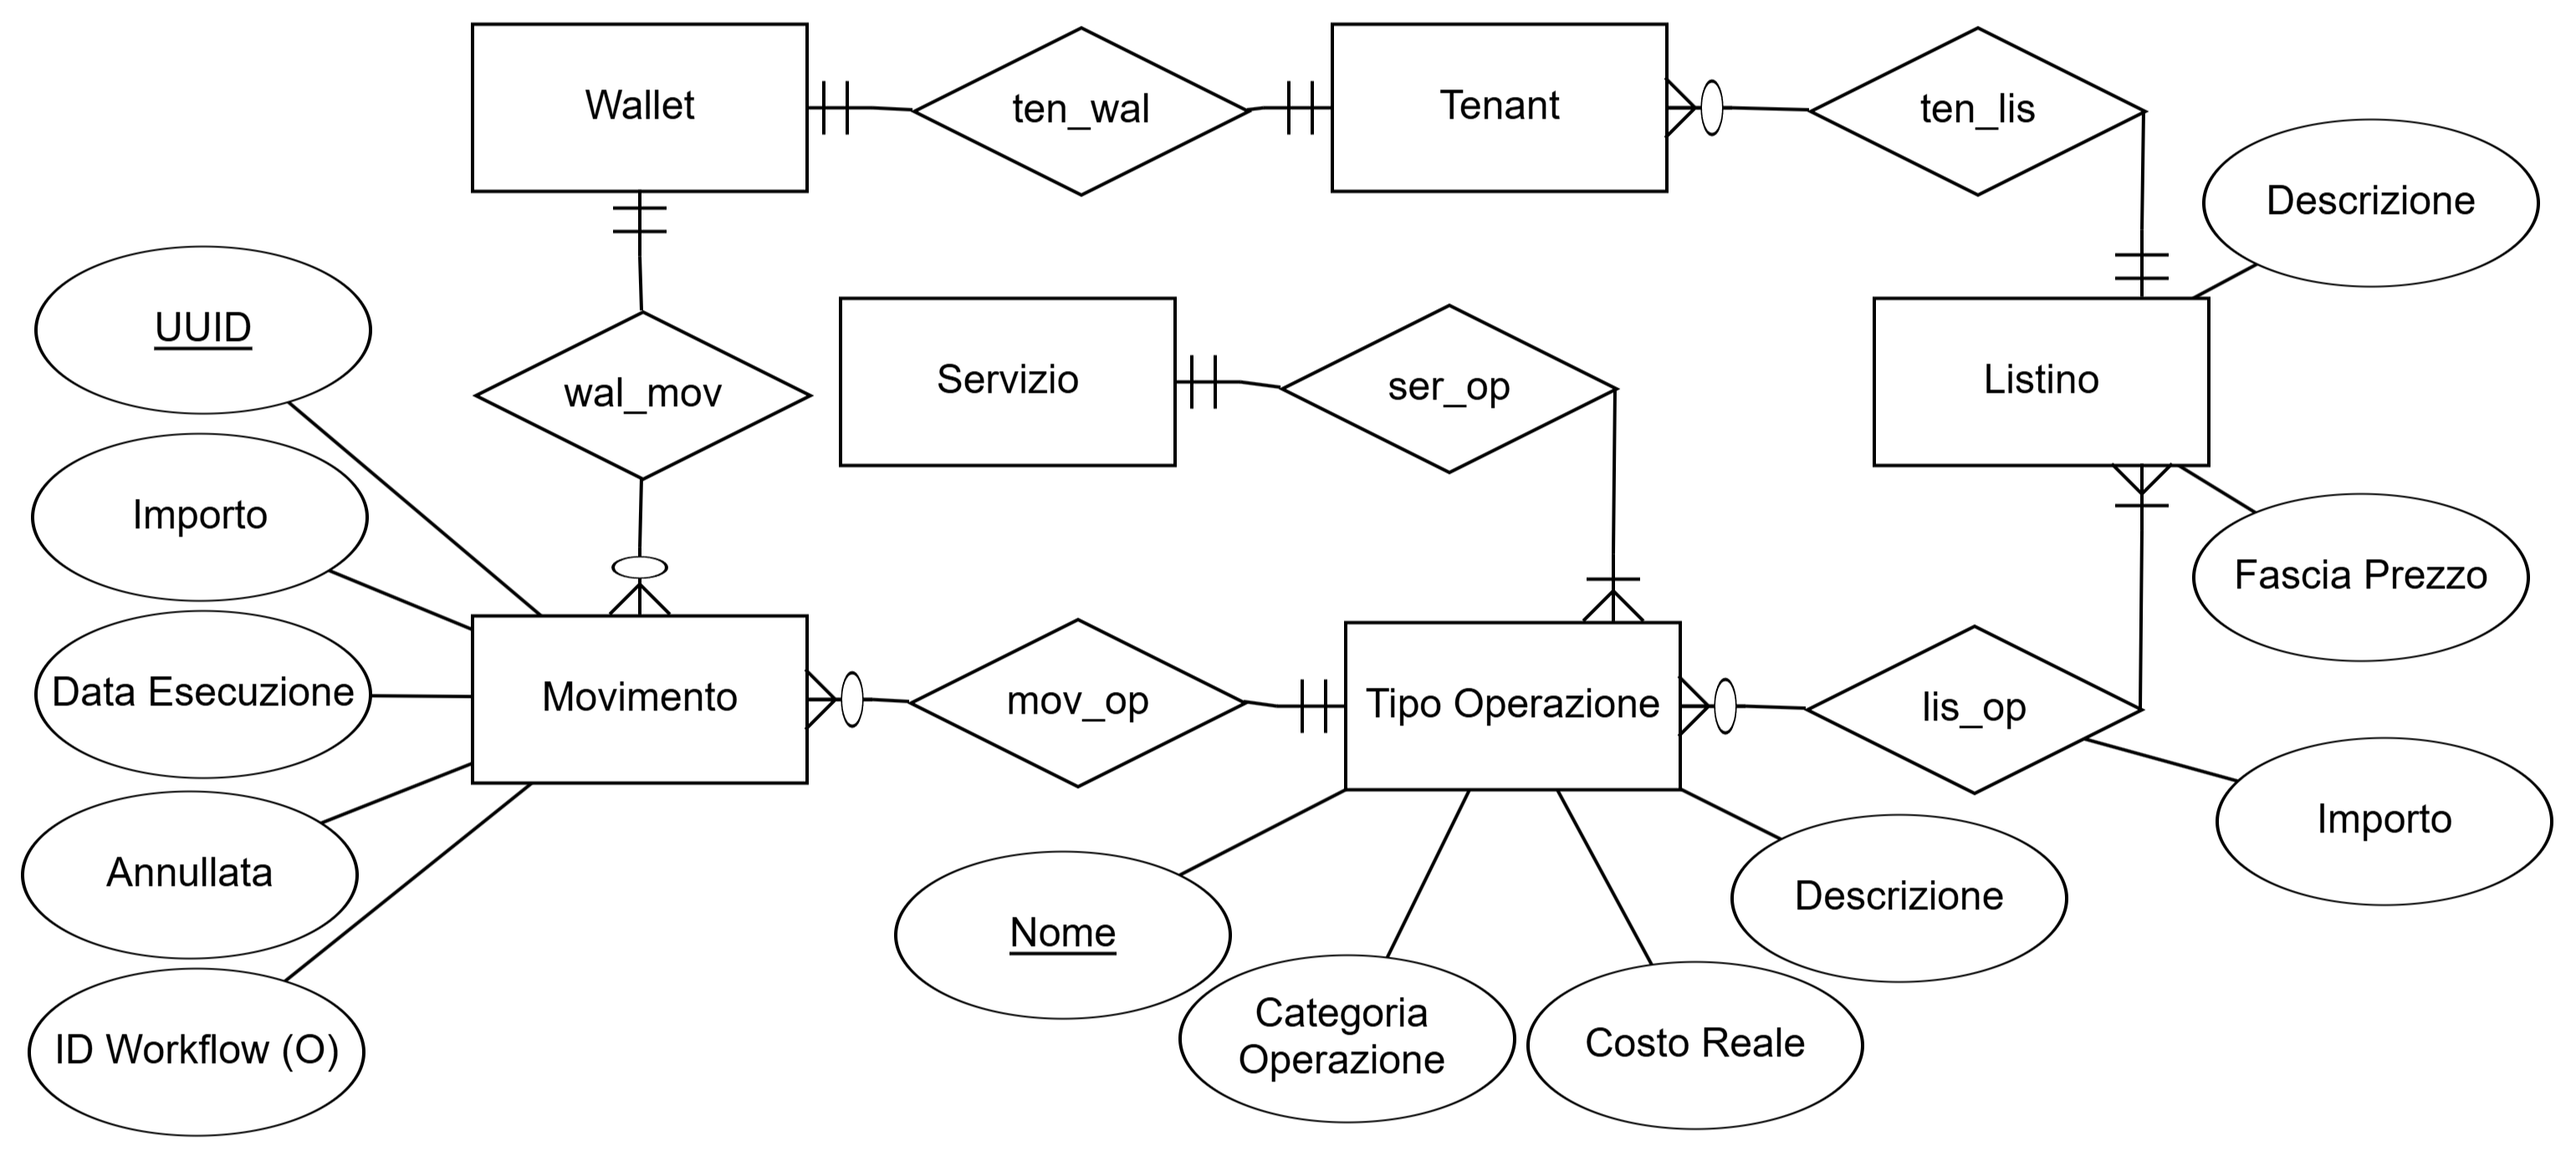
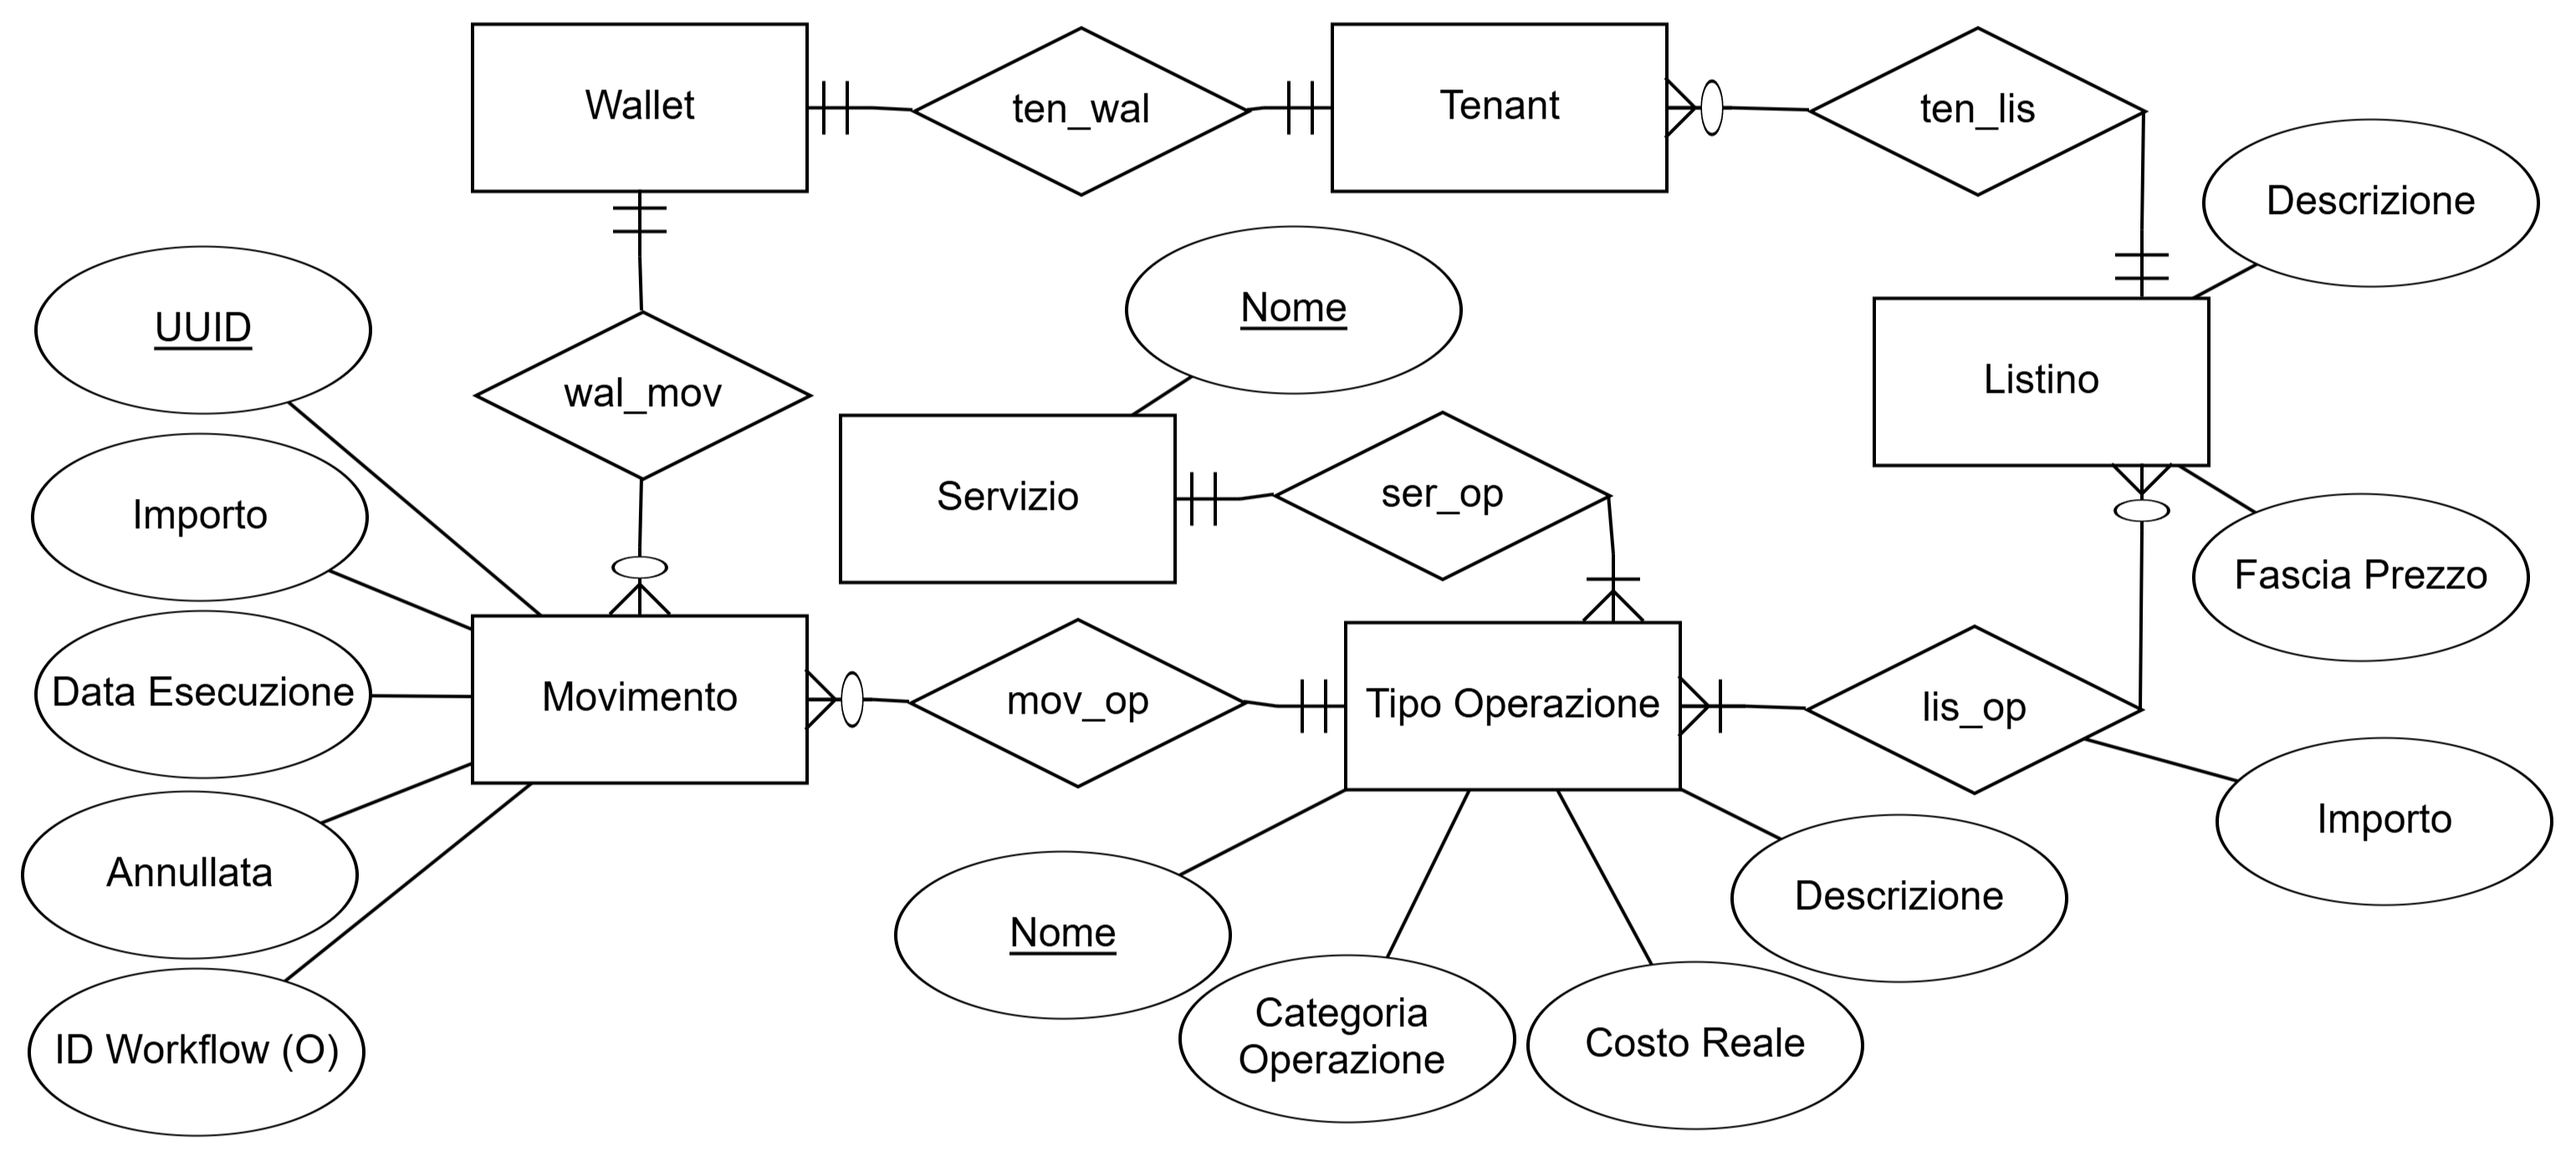
modifiche su progettazione concettuale e ristrutturazione e traduzione

diff --git a/src/chapters/progettazione_concettuale.tex b/src/chapters/progettazione_concettuale.tex
@@ -40,27 +40,39 @@ Non sono presenti neanche le chiavi primarie normalmente richieste in un vero da
     \toprule
     \textbf{Attributo} & \textbf{Dominio} & \textbf{Descrizione} \\
     \midrule
-    Nome & string & Nome del Servizio \\\bottomrule
+    Nome & Stringa & Nome del Servizio \\\bottomrule
   \end{tabulary}
 \end{table}
 
 \begin{table}[H]
   \centering
-  \caption{Descrizione degli attributi dell'entit\`a Tipo Movimento}
+  \caption{Descrizione degli attributi dell'entit\`a Tipo Operazione}
   \begin{tabulary}{0.9\textwidth}{p{2.3cm}p{2.7cm}L}
     \toprule
     \textbf{Attributo} & \textbf{Dominio} & \textbf{Descrizione} \\
     \midrule
-    Nome & string & Nome del Tipo Operazione \\\addlinespace
+    Nome & Stringa & Nome del Tipo Operazione \\\addlinespace
     Categoria Operazione & \{ADDEBITO, ACCREDITO\} & Tipologia di operazione. Utilizziamo un enum type per rappresentare questo attributo. \\\addlinespace
     Costo Reale & numeric & Costo reale affrontato interrogando la banca dati esterna \\\addlinespace
-    Descrizione & string & Breve descrizione di cosa fa l'operazione\\\bottomrule
+    Descrizione & Stringa & Breve descrizione di cosa fa l'operazione\\\bottomrule
   \end{tabulary}
 \end{table}
 
 \begin{table}[H]
   \centering
-  \caption{Descrizione degli attributi della relationship Prezzo Listino}
+  \caption{Descrizione degli attributi dell'entit\`a Listino}
+  \begin{tabulary}{\textwidth}{p{2.3cm}p{1.8cm}L}
+    \toprule
+    \textbf{Attributo} & \textbf{Dominio} & \textbf{Descrizione} \\
+    \midrule
+    Descrizione & Stringa & Descrizione del Listino\\
+    Fascia Prezzo & \{ALTA, MEDIA, BASSA\} & Campo descrittivo per indicare la fascia di prezzo del listino\\\bottomrule
+  \end{tabulary}
+\end{table}
+
+\begin{table}[H]
+  \centering
+  \caption{Descrizione degli attributi della relationship lis\_op}
   \begin{tabulary}{\textwidth}{p{2.3cm}p{2.3cm}L}
     \toprule
     \textbf{Attributo} & \textbf{Dominio} & \textbf{Descrizione} \\
@@ -70,12 +82,30 @@ Non sono presenti neanche le chiavi primarie normalmente richieste in un vero da
 \end{table}
 
 \subsection{Vincoli Esterni}
-Non \`e stato possibile rappresentare un singolo vincolo attraverso lo schema ER:\\\\
+Dalla costruzione dello schema concettuale, \`e emersa la necessità di rappresentare il seguente vincolo esterno:\\\\
 \textbf{\label{tuttiimporticoncept}Tutti gli importi specificati} - Esiste una relationship Prezzo Listino tra ogni entit\`a Listino e ogni entit\`a Tipo Operazione
 
 \section{Casi d'uso}
+In questa sezione verrà fornito lo schema UML dei casi d'uso, che indica le funzionalit\`a dell'applicazione e gli attori che le useranno. Prenderemo inoltre in esame
+un caso d'uso rappresentativo all'interno dell'applicativo e che coinvolge le funzionalit\`a del Credit Manager.
 \begin{figure}[H]
   \centering
-  \includegraphics[width=10cm]{images/db-diagrams/use-case-diagram.jpg}
+  \includegraphics[width=8.5cm]{images/db-diagrams/use-case-diagram.jpg}
   \caption{Schema UML dei casi d'uso}
 \end{figure}
+
+\textbf{crea\_listino(descrizione: Stringa, fascia\_prezzo: \{ALTA, MEDIA,\\BASSA\}, tipi\_operazione: [TipoOperazione], prezzi: [Numeric]) $\implies$ Listino:}\\\\
+\textit{pre}:\\\\
+\hspace*{0.5 cm}Verifica le seguenti condizioni:
+\begin{itemize}
+  \item $descrizione \neq$ ``''
+  \item $tipi\_operazione.length == prezzi.length$
+  \item $\forall tipoOperazione \in Tipo Operazione \implies \exists op \in tipi\_operazione \land op == tipoOperazione $
+\end{itemize}
+\textit{post}:
+\begin{enumerate}
+  \item Crea un nuovo Listino con la descrizione e fascia prezzo.
+  \item Per ogni \textit{tipo} in \textit{tipo\_operazione} crea una nuova relationship PrezzoListino tra il nuovo listino e \textit{tipo},
+    con importo uguale all'elemento di \textit{prezzi} con lo stesso indice.
+  \item Restituisci il nuovo Listino
+\end{enumerate}

diff --git a/src/chapters/ristrutturazione_traduzione.tex b/src/chapters/ristrutturazione_traduzione.tex
@@ -1,7 +1,7 @@
 \chapter{Ristrutturazione e traduzione dello schema}
 In questo capitolo procederemo alla preparazione dello schema per poi tradurlo direttamente in uno schema relazionale per PostgreSQL, specificando anche delle soluzioni per
 rispettare i vincoli esterni definiti.
-\section{Ristrutturazione dello schema ER}
+\section{Ristrutturazione dello schema Entity-Relationship}
 Procediamo alla ristrutturazione dello schema ER prima di tradurlo direttamente nello schema relazionale:
 \begin{itemize}
   \item Sostituiamo le relationship Molti a Molti, tipicamente introducendo una nuova tabella
@@ -13,20 +13,20 @@ Procediamo alla ristrutturazione dello schema ER prima di tradurlo direttamente 
 \begin{figure}[H]
   \centering
   \includegraphics[width=13cm]{images/db-diagrams/er-diagram-ristrutturato.png}
-  \caption{Schema Entit\`a Relazione tradotto}
+  \caption{Schema Entity-Relationship tradotto}
 \end{figure}
 
 \section{Traduzione dello schema ristrutturato}
 Traduciamo lo schema ristrutturato nello schema relazionale da inserire in PostgreSQL, con chiavi primarie e chiavi esterne.
 \\\\
-\textbf{Movimento(\underline{uuid}, importo, dataEsecuzione, descrizione, idWorkflow*, tipoOperazioneId, walletId) \\}
+\textbf{Movimento(\underline{uuid}, importo, dataEsecuzione, descrizione, idWorkflow*,\\ tipoOperazioneId, walletId) \\}
 \textbf{\hspace*{1.5 cm} foreign key: $ Movimento[tipoOperazioneId] \subseteq TipoOperazione[nome] $} \\
 \textbf{\hspace*{1.5 cm} foreign key: $ Movimento[walletId] \subseteq Wallet[id] $ }
 \\\\
-\textbf{TipoOperazione(\underline{nome}, servizioId, categoriaOperazione, costoReale, descrizione) \\}
-\textbf{\hspace*{1.5 cm} foreign key: $ TipoOperazione[servizioId] \subseteq Servizio[id] $}
+\textbf{TipoOperazione(\underline{nome}, servizio, categoriaOperazione, costoReale, \\descrizione) \\}
+\textbf{\hspace*{1.5 cm} foreign key: $ TipoOperazione[servizio] \subseteq Servizio[nome] $}
 \\\\
-\textbf{Servizio(\underline{id})}
+\textbf{Servizio(\underline{nome})}
 \\\\
 \textbf{Wallet(\underline{id}, saldo, tenantId) \\}
 \textbf{\hspace*{1.5 cm} key:} \textit{(tenantId)} \\
@@ -48,10 +48,11 @@ Traduciamo lo schema ristrutturato nello schema relazionale da inserire in Postg
 \end{figure}
 
 \section{Traduzione dei vincoli esterni}
-Visto che non sono stati aggiunti ulteriori vincoli esterni durante la ristrutturazione, occupiamoci dell'unico vincolo che \`e stato riconosciuto durante il la creazione dello
-schema concettuale:
+Visto che non sono stati aggiunti ulteriori vincoli esterni durante la ristrutturazione, occupiamoci dell'unico vincolo che \`e stato riconosciuto durante
+la creazione dello schema concettuale:
 \\\\
 \textbf{Tutti gli importi specificati (\ref{tuttiimporticoncept})} - Come vedremo nel prossimo capitolo \textbf{(\ref{designinserimentoprezzi})}, il vincolo verr\`a forzato dal form di creazione.
 
 \section {Tabelle pre-popolate}
-Visto che i tipi di operazione sono conosciuti a priori e da design non \`e possibile aggiungerne di nuovi tramite interfaccia, pre-popoleremo la relativa tabella.
+Ci sono due tabelle di cui conosciamo il contenuto a priori, e che non \`e possibile modificare da interfaccia: TipoOperazione e Servizio. Pertanto, inseriremo dei dati per popolarle
+durante l'inizializzazione del database.
